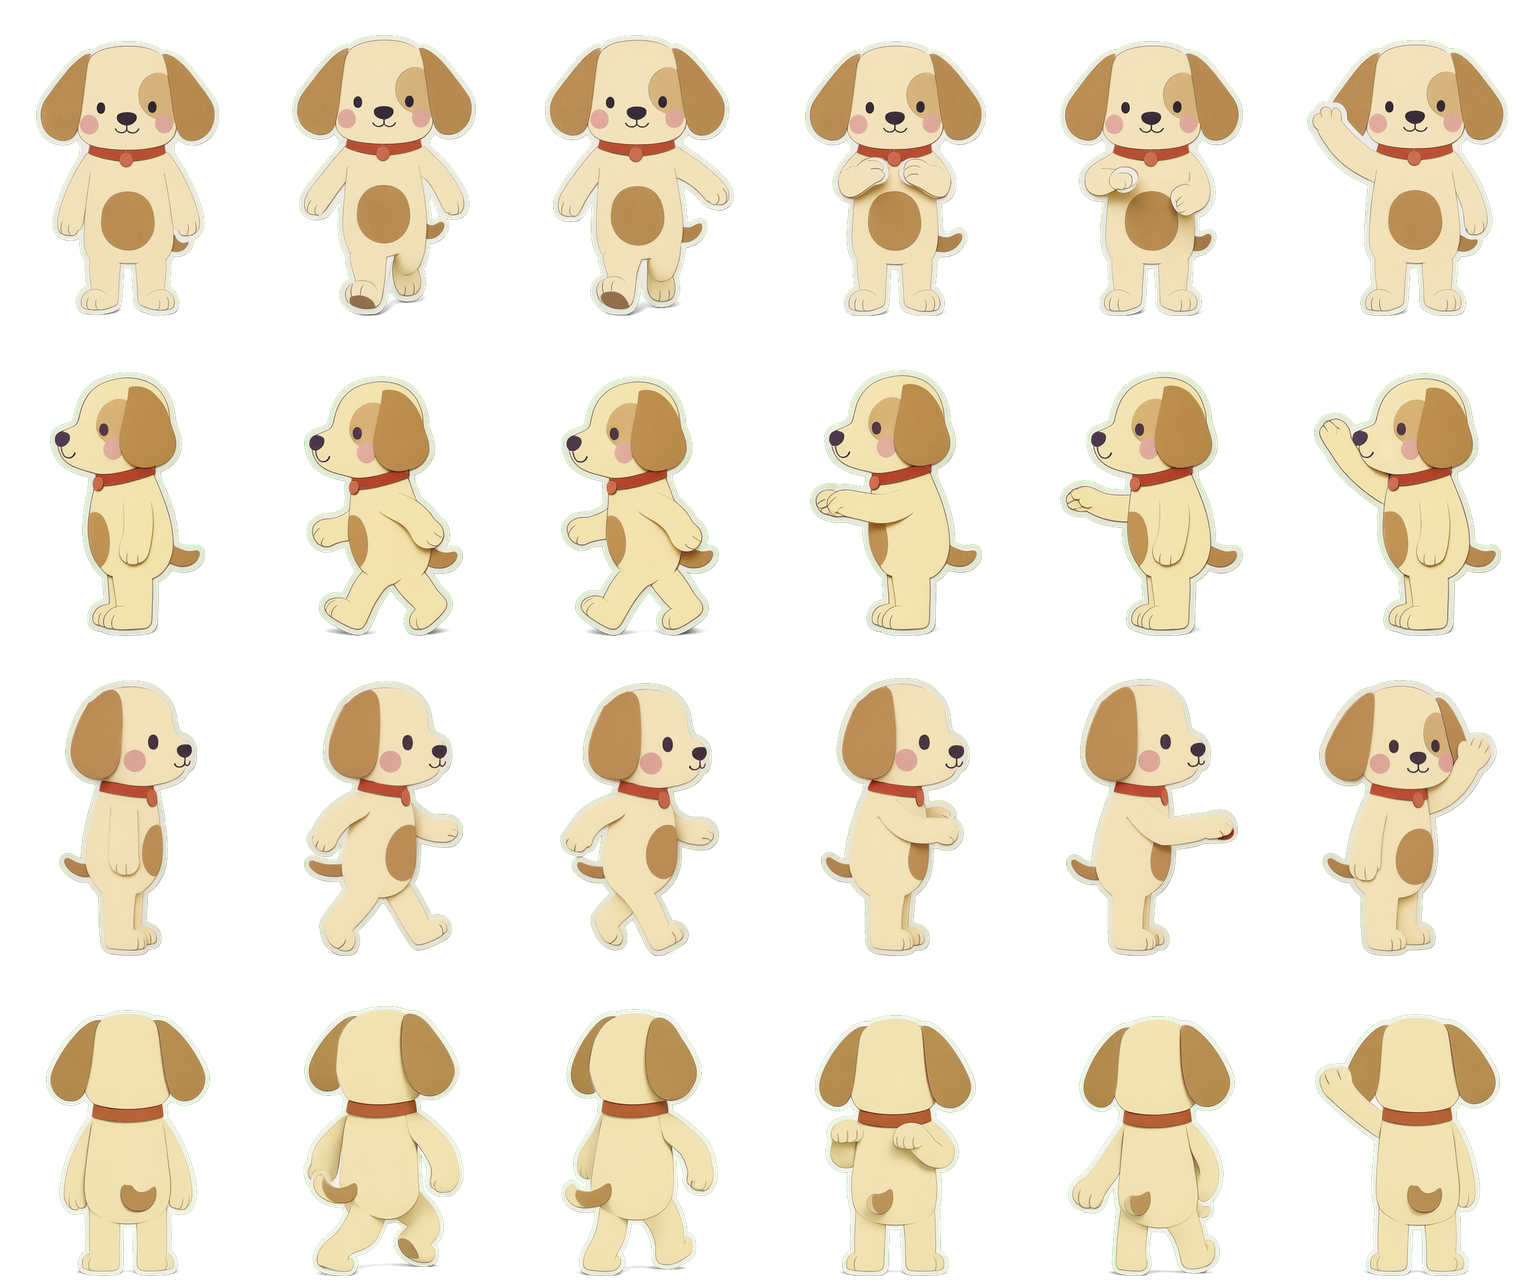
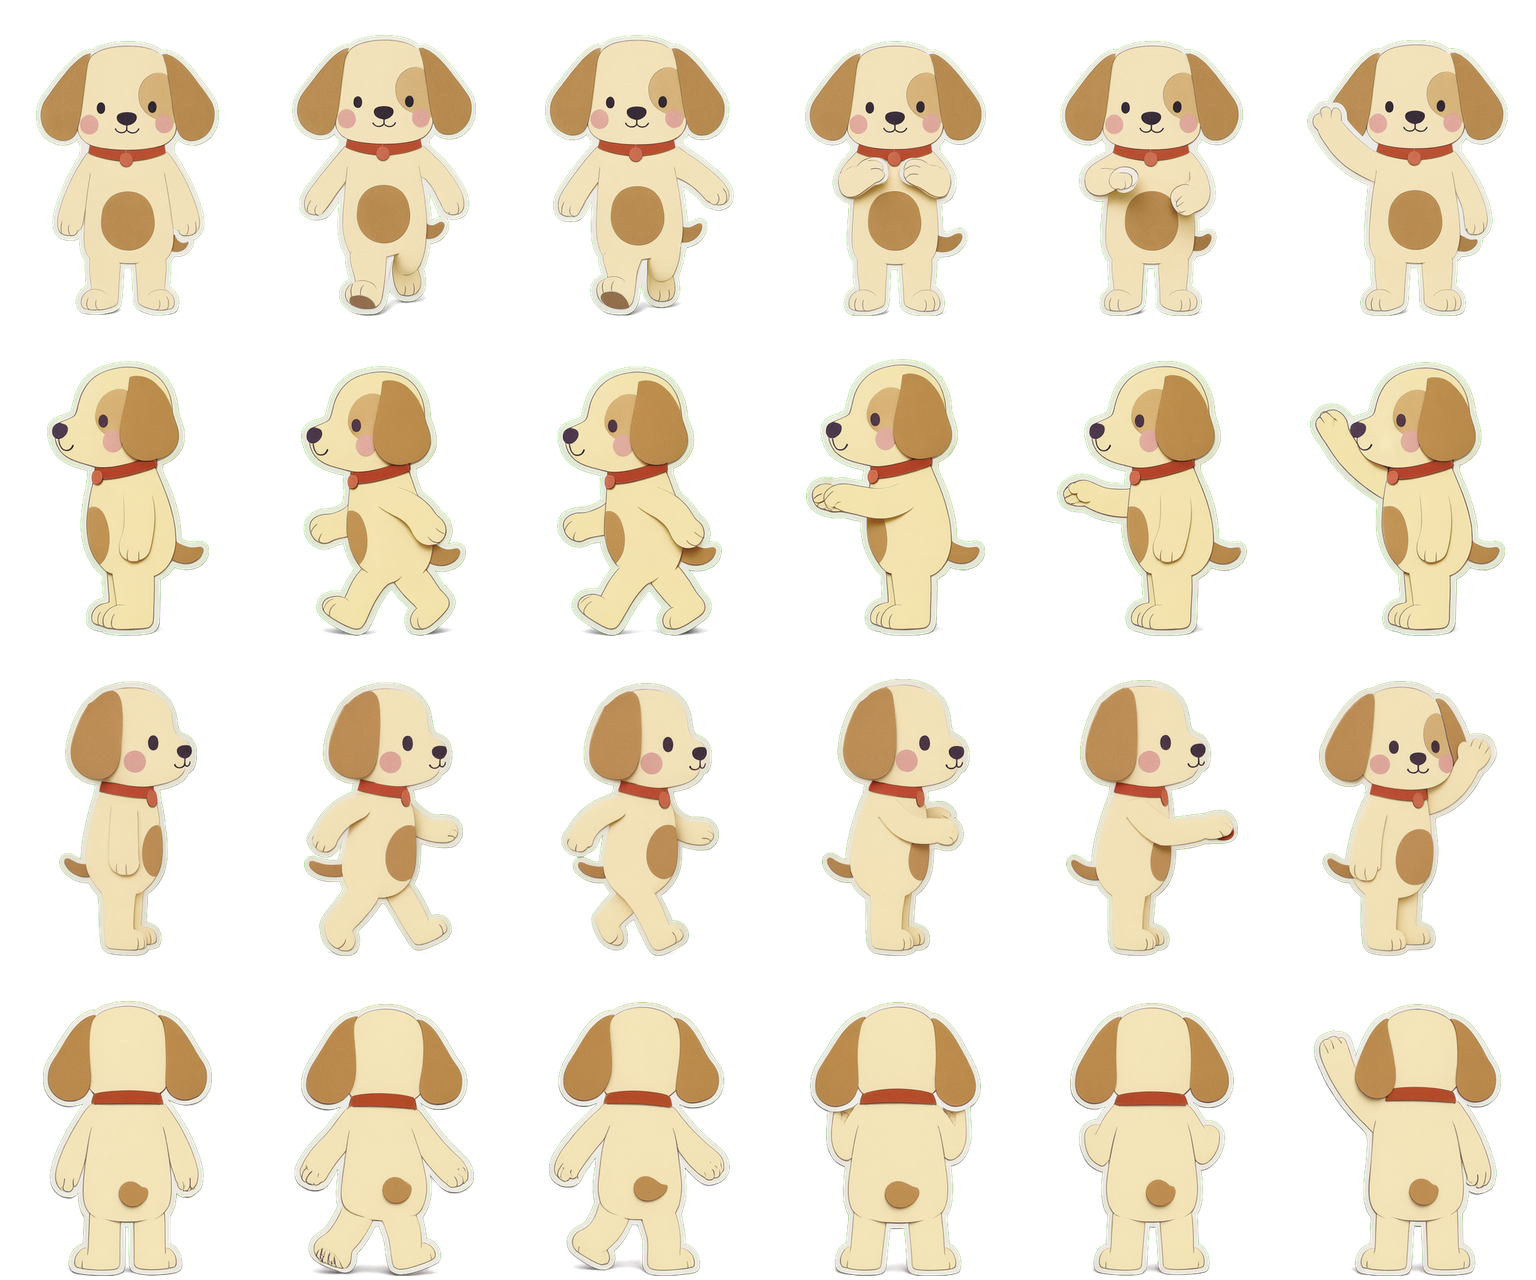
Primepaw: the standee's back view redrawn, and every facing stands the same height
The back-facing walk strip twisted the puppy at the waist, floated an ear and showed the lifted
foot's pad at an odd angle. Redrawn on Comfy Cloud from the body with a tighter prompt (upright and
square to the viewer in every cell, both ears on the head, the sole hidden, the working paws out of
sight from behind) and sliced again; the peeking atlas and the face sticker are untouched.

pet/build.py now scales each facing of the walk sheet to the front row's standing height instead of
one scale for all four, so the standee keeps its height as it turns (the four rows stood 275, 264,
276 and 254 px; now all 275). pet/README.md and the skill's notes say so.

diff --git a/mockups/primepaw/pet/build.py b/mockups/primepaw/pet/build.py
@@ -199,20 +199,24 @@ def build_walk(src, args):
     cw, ch = WALK_CELL
     pad = args.pad
     stand_h = rows['down'][0].size[1]
-    scale = (ch * WALK_STAND_H) / stand_h
+    # every facing stands the same height, the front row's: the puppy does not grow or shrink when it turns,
+    # however large the model drew each strip
+    scales = {facing: (ch * WALK_STAND_H) / fs[0].size[1] for facing, fs in rows.items()}
     # a pose taller or wider than its cell at that scale (a paw over the head) shrinks them all alike
-    for fs in rows.values():
+    shrink = 1.0
+    for facing, fs in rows.items():
         for f in fs:
-            scale = min(scale, (ch - 2 * pad) / f.size[1], (cw - 2 * pad) / f.size[0])
+            shrink = min(shrink, (ch - 2 * pad) / (f.size[1] * scales[facing]), (cw - 2 * pad) / (f.size[0] * scales[facing]))
+    scales = {facing: s * shrink for facing, s in scales.items()}
     sheet = Image.new('RGBA', (cw * len(WALK_COLUMNS), ch * len(WALK_FACINGS)), (0, 0, 0, 0))
     for r, facing in enumerate(WALK_FACINGS):
         for c, f in enumerate(rows[facing]):
-            g = f.resize((max(1, round(f.size[0] * scale)), max(1, round(f.size[1] * scale))), Image.LANCZOS)
+            g = f.resize((max(1, round(f.size[0] * scales[facing])), max(1, round(f.size[1] * scales[facing]))), Image.LANCZOS)
             x = c * cw + (cw - g.size[0]) // 2
             y = r * ch + ch - pad - g.size[1]
             sheet.alpha_composite(g, (x, y))
     sheet.save(os.path.join(HERE, args.name + '-walk.png'), optimize=True)
-    stand = stand_h * scale / ch  # the standing puppy's share of the cell
+    stand = stand_h * scales['down'] / ch  # the standing puppy's share of the cell
     manifest = {'layout': 'sheet', 'cols': len(WALK_COLUMNS), 'rows': len(WALK_FACINGS), 'cell': {'w': cw, 'h': ch},
                 'columns': WALK_COLUMNS, 'facings': WALK_FACINGS, 'sheet': {'w': sheet.size[0], 'h': sheet.size[1]},
                 'standing': round(stand, 3),

diff --git a/mockups/primepaw/.claude/skills/primepaw-character/references/comfy.md b/mockups/primepaw/.claude/skills/primepaw-character/references/comfy.md
@@ -83,6 +83,8 @@ with a new seed when:
 - the motion is not there (a greet with no wave, a sad with no droop);
 - anything but green shows around the figure (grid lines, labels, a frame).
 
-Judge the walk strips as a set: all four need the same standing height, or the standee changes size
-when it turns. The avatar must be one round sticker filling the frame, and the body a full figure with
-its feet on the ground and nothing cropped.
+Judge the walk strips as a set: `build.py` scales each facing to the same standing height, so a strip
+drawn a little smaller is fine, but one drawn much smaller comes out soft. The figure must stay upright
+and square to the viewer in every cell; the back view is the one the model twists, so look at its
+walking cells closely. The avatar must be one round sticker filling the frame, and the body a full figure
+with its feet on the ground and nothing cropped.

diff --git a/mockups/primepaw/.claude/skills/primepaw-character/SKILL.md b/mockups/primepaw/.claude/skills/primepaw-character/SKILL.md
@@ -60,7 +60,7 @@ python3 mockups/primepaw/pet/build.py --name <id>
 It keys the green out, finds the cells on each sheet by the bands of paper (the model draws the grid
 it likes), tightens every frame to its paper, scales a cut's frames alike, and lays them out: the
 peeking atlas with the cut edge on one line, the face squared up, the walk sheet with the feet on the
-cell's ground line and the standing figure 86% of the cell. Read its printout: every mood sheet should
+cell's ground line, every facing at the same standing height and the standing figure 86% of the cell. Read its printout: every mood sheet should
 yield 8 frames of nearly the same size, every walk strip 6. A sheet that yields another count is
 resampled silently and will stutter; redraw it with a new seed rather than accept it. Needs Pillow and
 numpy on the host Python.

diff --git a/mockups/primepaw/pet/README.md b/mockups/primepaw/pet/README.md
@@ -65,7 +65,8 @@ block), so leave `--frames` at 8 unless you change those with it; `build.py` war
 `build.py` keys the green out (the key colour is read off each sheet's border, edge pixels are
 un-mixed), finds the cells on a sheet by the bands of paper rather than trusting the grid the model was
 asked for (it draws 4 by 2, 4 by 3 or 3 by 3 as it likes), tightens each frame to its paper, scales
-every frame of a cut alike, and lays them out with the flat cut edge, or the feet, on one line. Needs
+every frame of a cut alike (the standee's four facings each to the same standing height, so it keeps its
+height as it turns), and lays them out with the flat cut edge, or the feet, on one line. Needs
 Pillow and numpy.
 
 ## The prompts
